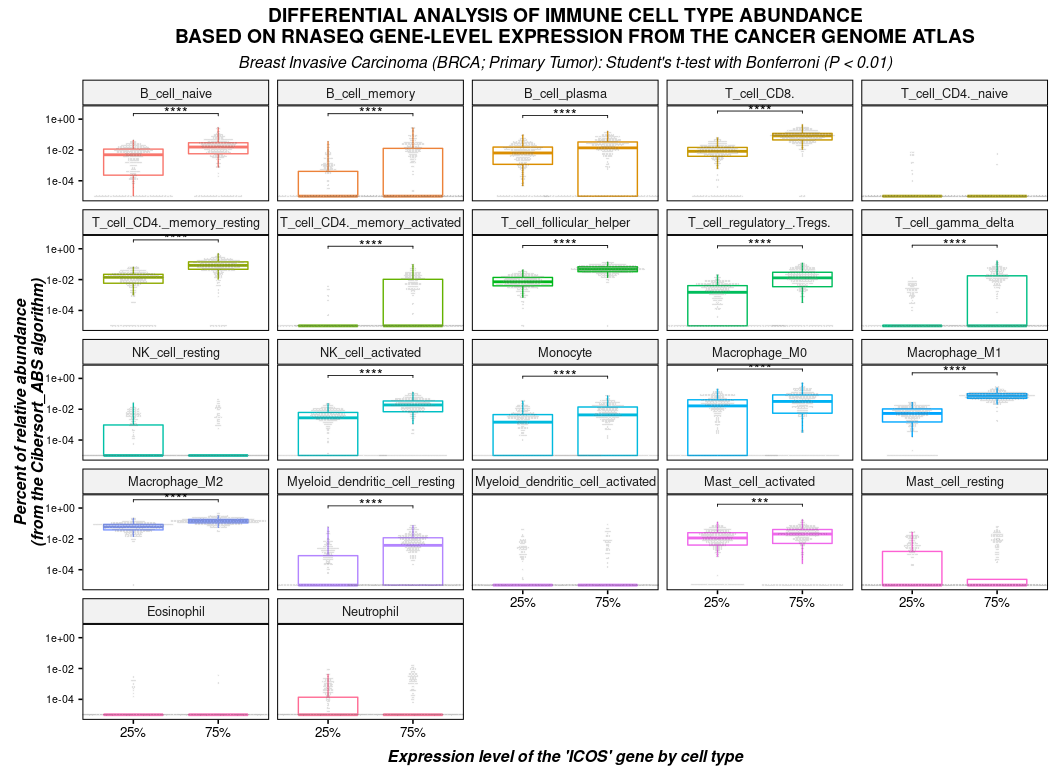
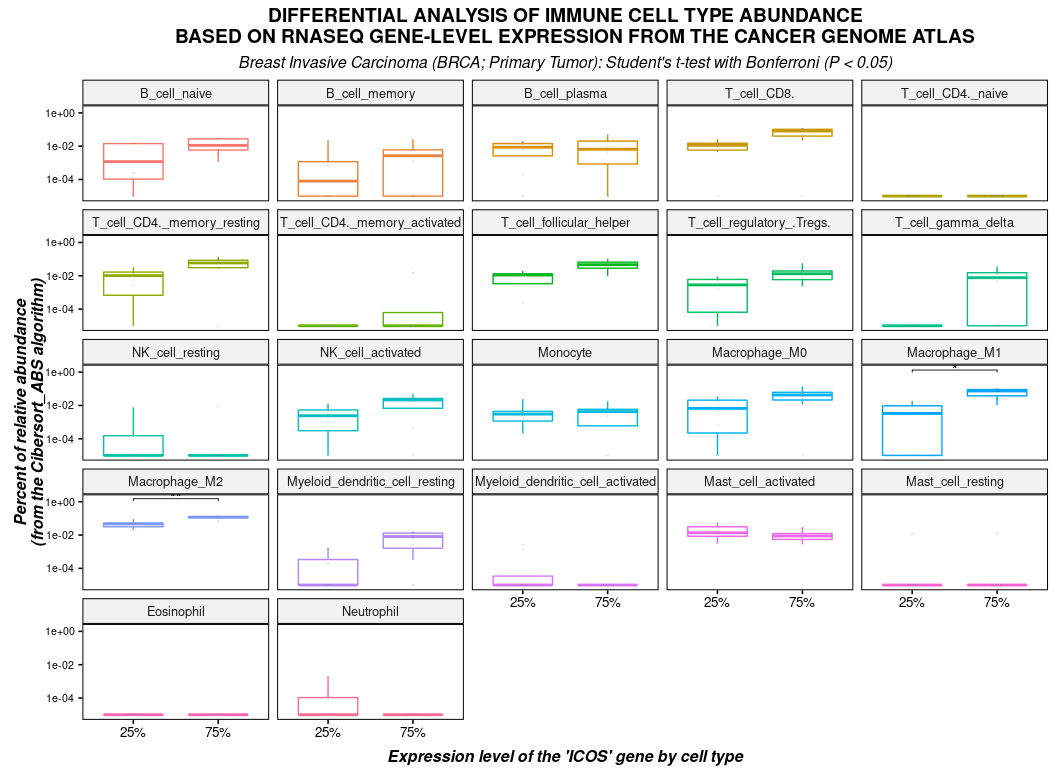
Update figures and readme

diff --git a/README.md b/README.md
@@ -15,7 +15,8 @@ database.
 
 ## Installation
 
-Required: - Softwares : R (≥ 3.3.0) - R libraries : see the
+Required: - Softwares : R (≥ 3.3.0); RStudio
+(<https://posit.co/downloads/>) - R libraries : see the
 [DESCRIPTION](https://github.com/ecamenen/tcgaViz/blob/develop/DESCRIPTION)
 file.
 
@@ -29,12 +30,7 @@ devtools::install_github("ecamenen/tcgaViz")
 
 ## Launch the Shiny server
 
-1.  Download the tcga dataset
-    [here](https://zenodo.org/record/6577211/files/tcga.rda?download=1).
-2.  Copy it in the “extdata” folder of the library (get the path of your
-    library with the following R command:
-    `system.file("extdata", package = "tcgaViz")`.
-3.  Open R and run: `tcgaViz::run_app()`
+Open RStudio and run: `tcgaViz::run_app()`
 
 ## Docker
 
@@ -165,7 +161,7 @@ expressions.
     df,
     method_test = "t_test",
     method_adjust = "bonferroni",
-    p_threshold = 0.01
+    p_threshold = 0.05
 ))
 #> Breast Invasive Carcinoma (BRCA; Primary Tumor)
 #> Student's t-test with bonferroni correction (n_low = 8; n_high = 8).
@@ -191,7 +187,7 @@ plot(
     draw = FALSE
 ) + labs(
     subtitle = paste("Breast Invasive Carcinoma (BRCA; Primary Tumor):",
-    "Student's t-test with Bonferroni (P < 0.01)")
+    "Student's t-test with Bonferroni (P < 0.05)")
 )
 ```
 
